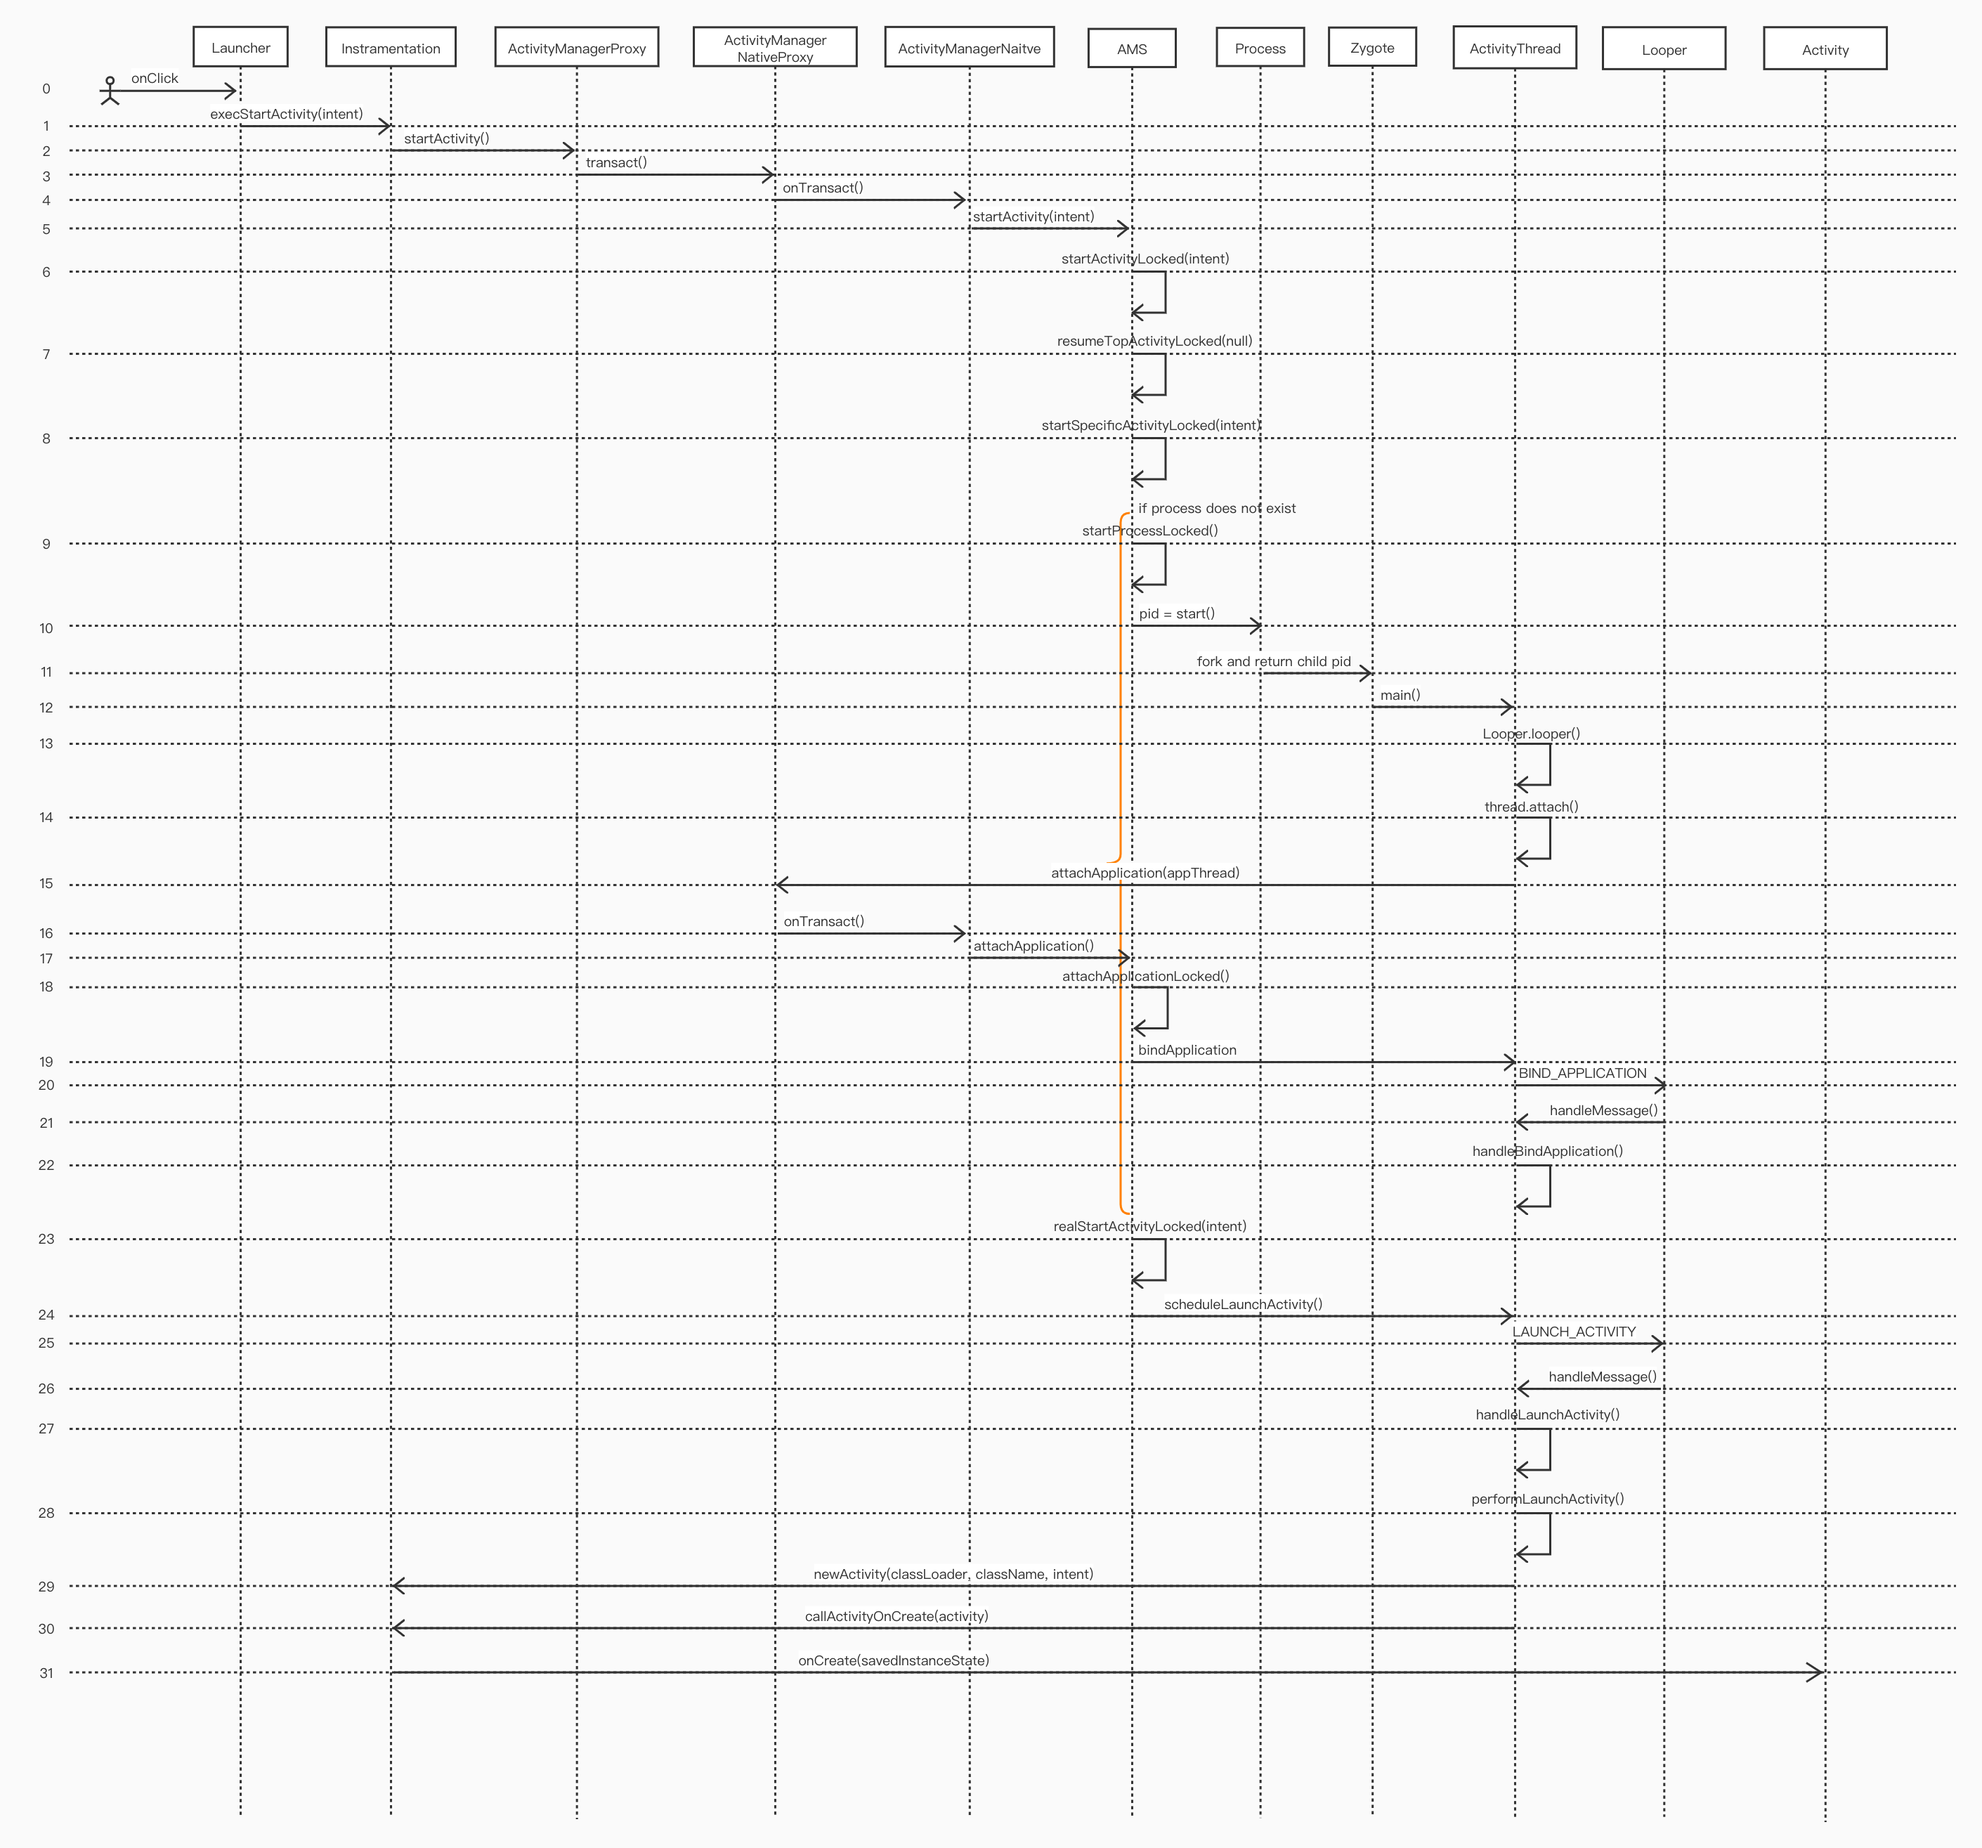
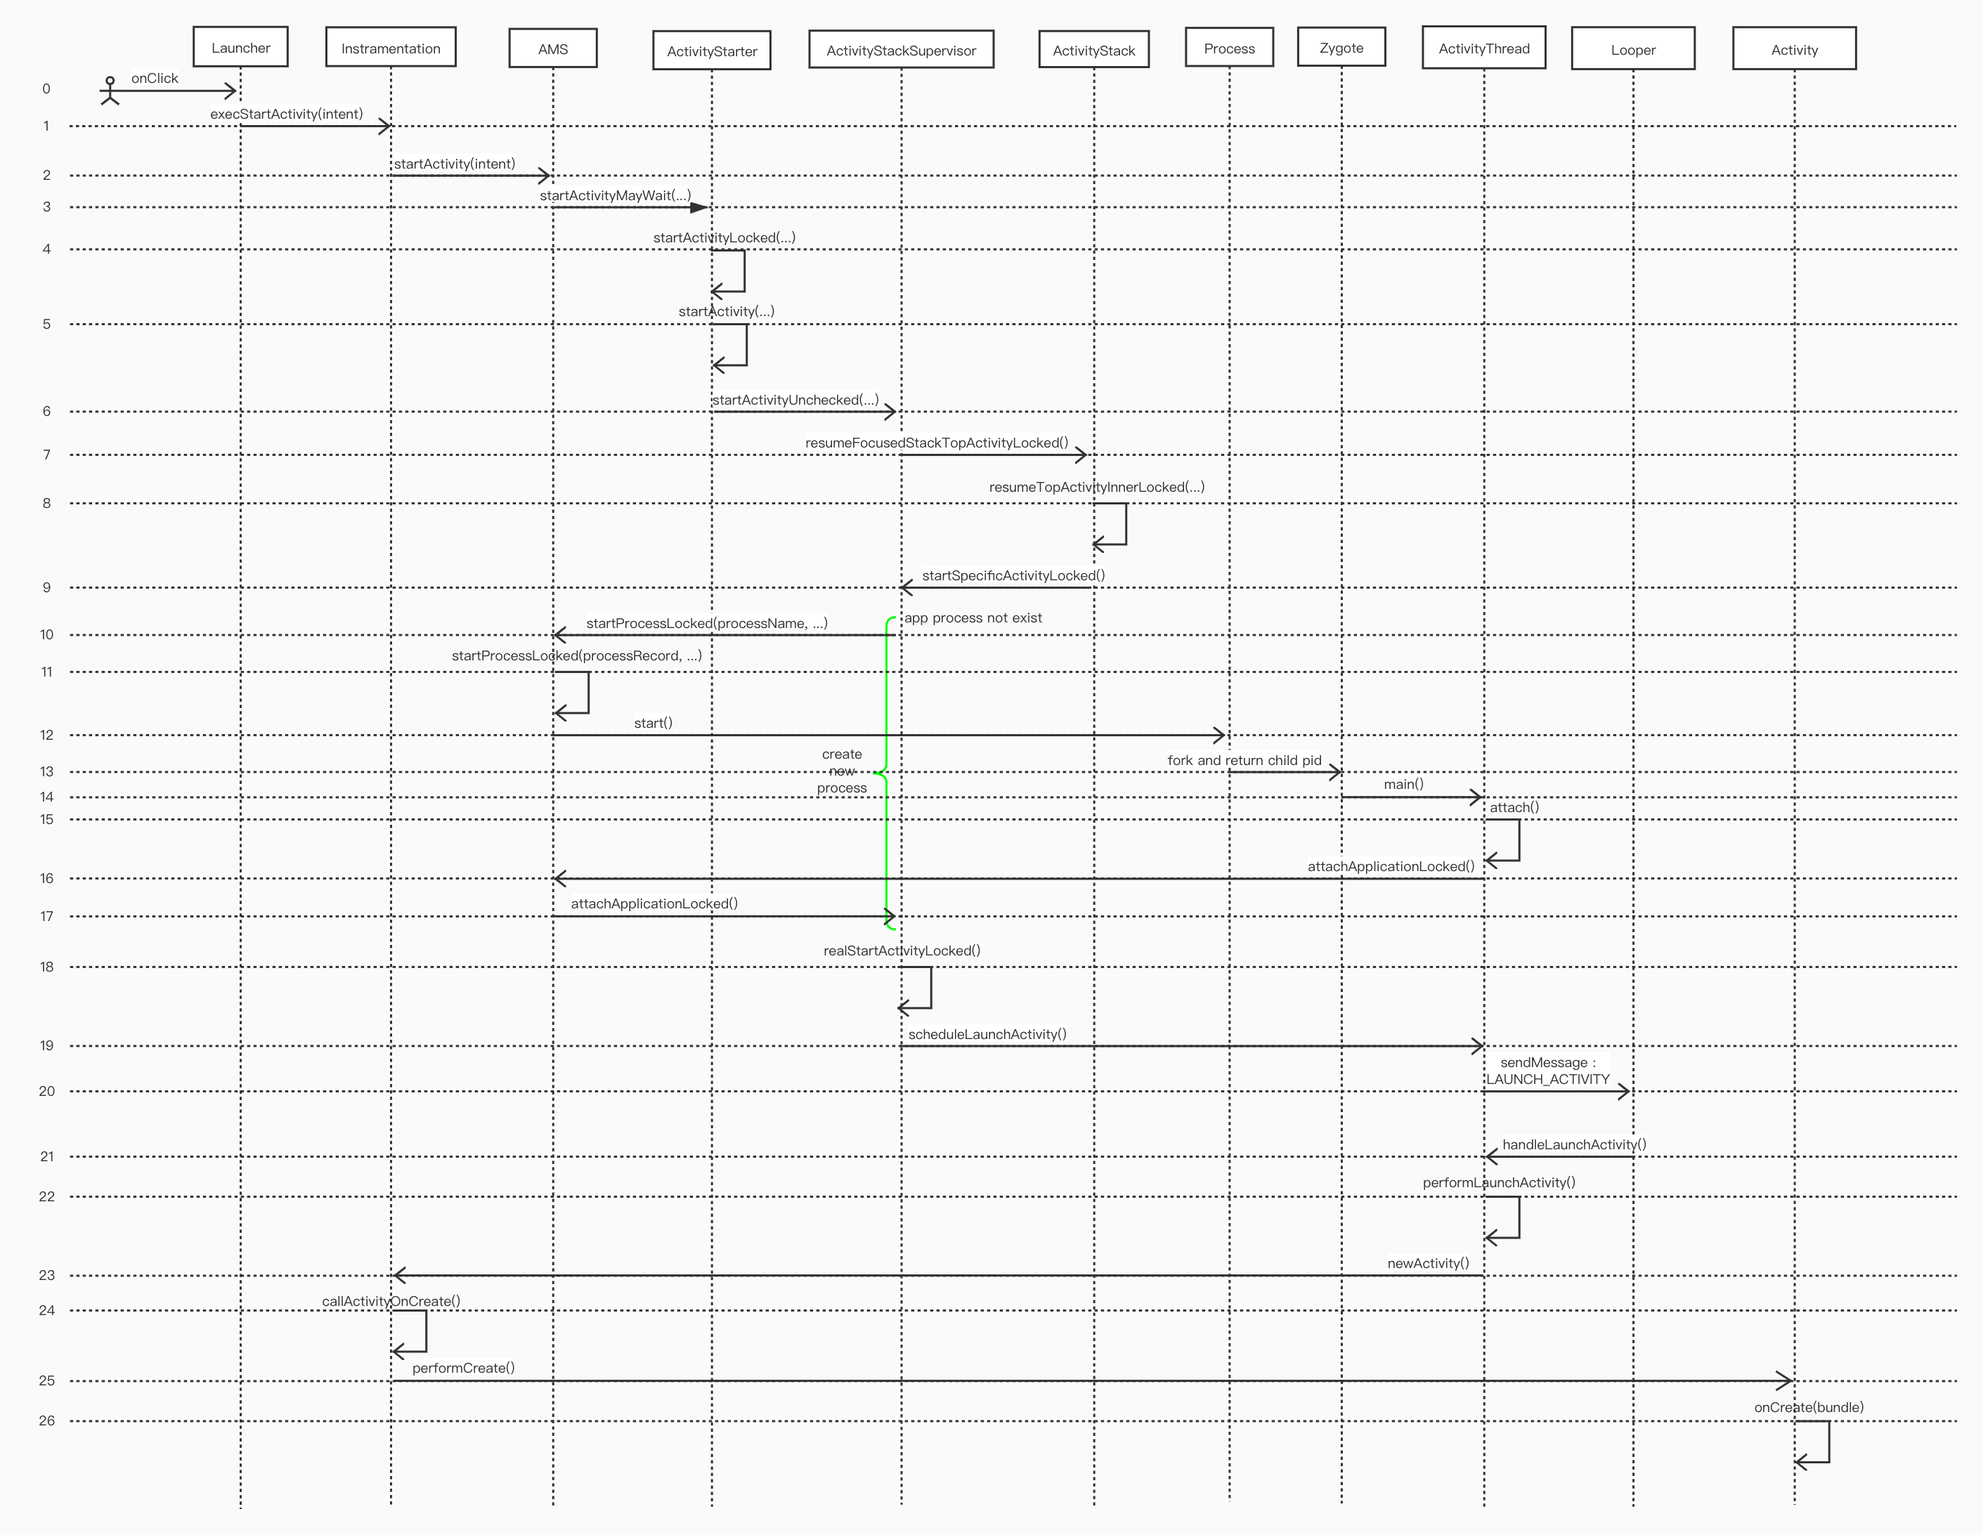
update

diff --git a/Android AOSP/Android App 加载过程介绍：从 startActivity() 到 Activity.onCreate().md b/Android AOSP/Android App 加载过程介绍：从 startActivity() 到 Activity.onCreate().md
@@ -2,11 +2,9 @@
 
 zygote 首先会 fork 出一个叫做 SystemServer 的进程，许多核心服务（如 AMS, WMS, PMS 等）由 SystemServer 进行初始化。所有核心服务加载完毕后，系统已准备好加载应用程序了。zygote 会 fork 出第一个应用进行--桌面应用（Launcher）进行展示。
 
-下图描述从用户点击桌面图标到 `Activity.onCreate()` 回调过程中的关键步骤
+下图以 Android_8.0.0 版本为基础描述从用户点击桌面图标到 `Activity.onCreate()` 回调过程中的关键步骤
 
 ![from launcher click to onCreate callback](../resource/launcher2oncreate.jpg)
-
-上图是从网上找到的，内容来自 aosp 较早版本，好多代码已经被移除（ActivityManagerProxy, ActivityManagerNativeProxy）或者被标记过时（ActivityManagerNative），但是主体流程过程是没啥问题的。下面会以 Android_8.0.0_r36 源码为基础分析应用启动过程。
 
 ## 启动 Activity
 ### 模拟启动 TargetApp
@@ -244,25 +242,159 @@ final int startActivityMayWait(IApplicationThread caller, int callingUid,
 |inTask|null|具体作用未知，TaskRecord 是 ActivityStackSupervisor-ActivityStack-TaskRecord-ActivityRecord 关系中的一个组件，记录 task 信息|
 |reason|`"startActivityAsUser"`|作用未知|
 
+进入代码之前要先清楚 task 是如何管理 Activity 的，快速浏览 [Activity launchMode、回退栈与 affinity](https://blog.csdn.net/weixin_46221133/article/details/104172642) 了解大概后，还需要了解以下实体类
 
+|类|作用|
+|---|---|
+|Intent|代表一种意图，比如，启动一个 Activity，启动一个 Service，都是以 Intent 发起，根据 Intent 信息获取应用或系统中可以响应这个意图的组件|
+|ResolveInfo|Resolve 代表解析的意思。粗略地讲，可以把它看作从 AndroidManifest 文件中解析出来的某个组件实体类。这个解析过程是由 PackageMangerService 提供，PMS 根据 intent 和 resolveType 从 manifest 信息中解析出来。 ActivityInfo、ServiceInfo、ProviderInfo 都是它的成员变量|
+|ActivityInfo|Info 代表信息，是个静态概念，它是 activity 实体类。它是从 AndroidManifest 文件获取的信息，承载 `activity` 或 `receiver` 标签的所有属性。|
+|ActivityRecord|Record 代表记录，是个动态概念（与 ActivityInfo 相比），它也是 activity 实体类。不过，它更偏向“记录”，信息是时时变化的，比如，activity 从哪个 intent 得来，需要将信息传回哪个 activity；activity 在 task 中的位置；activity 上次保存的状态等。|
+|TaskRecord|与 ActivityRecord，TaskRecord 记录的是 task 的动态信息，它是 task 的实体类。它内部有个数据记录属于本 task 所有 ActivityRecord。|
+|ActivityStack|Stack 代表栈，看名字就能看出，它起栈的作用，内部元素是 activity。它存放到设备中所有的 activity, task 以及它们的排列方式。因为记录的是所有的 activity，所以它知道所有 activity 的状态。|
+|ActivityStackSupervisor|Supervisor 有管理员的意思，它的作用也就很显示了，操作 ActiviyStack，因为 ActivityStack 拥有所有的 activity，所以 ActivityStackSupervisor 就是管理所有 activity 了。它就是 AMS 的真正执行者|
+|Activity|感觉它名字起错了，叫 Controller 才合适，它等待 ActivityRecord 把所有信息处理完成后，会初始化一个 PhoneWindow 对象，此对象用于显示画面。此后就将内部逻辑交给 AMS，显示交到 WMS，Activity 在中间起调节作用，最主要的是给开发者一个简单的模型，方便开发。|
 
+现在可以看代码了
+```java
+// ActivityStarter.startActivityMayWait
+final int startActivityMayWait(IApplicationThread caller, int callingUid,
+        String callingPackage, Intent intent, String resolvedType,
+        IVoiceInteractionSession voiceSession, IVoiceInteractor voiceInteractor,
+        IBinder resultTo, String resultWho, int requestCode, int startFlags,
+        ProfilerInfo profilerInfo, WaitResult outResult,
+        Configuration globalConfig, Bundle bOptions, boolean ignoreTargetSecurity, int userId,
+        IActivityContainer iContainer, TaskRecord inTask, String reason) {
+    
+    ...
 
+    // 从 PMS 获取目标 intent 的解析信息（resolve info）
+    ResolveInfo rInfo = mSupervisor.resolveIntent(intent, resolvedType, userId);
+    
+    ...
 
+    ActivityInfo aInfo = mSupervisor.resolveActivity(intent, rInfo, startFlags, profilerInfo);
 
+    ActivityOptions options = ActivityOptions.fromBundle(bOptions);
+    // 根据上文可知 iContainer 为 null
+    ActivityStackSupervisor.ActivityContainer container =
+            (ActivityStackSupervisor.ActivityContainer)iContainer;
+    synchronized (mService) {
+        if (container != null && container.mParentActivity != null &&
+                container.mParentActivity.state != RESUMED) {
+            return ActivityManager.START_CANCELED;
+        }
+        final int realCallingPid = Binder.getCallingPid();
+        final int realCallingUid = Binder.getCallingUid();
+        int callingPid;
+        if (callingUid >= 0) {
+            callingPid = -1;
+        } else if (caller == null) {
+            callingPid = realCallingPid;
+            callingUid = realCallingUid;
+        } else {
+            callingPid = callingUid = -1;
+        }
 
+        final ActivityStack stack;
+        if (container == null || container.mStack.isOnHomeDisplay()) {
+            stack = mSupervisor.mFocusedStack;
+        } else {
+            stack = container.mStack;
+        }
+        stack.mConfigWillChange = globalConfig != null
+                && mService.getGlobalConfiguration().diff(globalConfig) != 0;
+        if (DEBUG_CONFIGURATION) Slog.v(TAG_CONFIGURATION,
+                "Starting activity when config will change = " + stack.mConfigWillChange);
 
+        // 与下面 Binder.restoreCallingIdentity(origId) 成对出现，用于权限控制
+        final long origId = Binder.clearCallingIdentity();
 
+        if (aInfo != null &&
+                (aInfo.applicationInfo.privateFlags
+                        & ApplicationInfo.PRIVATE_FLAG_CANT_SAVE_STATE) != 0) {
+            // 如果在 <activity> 的 android:process 属性添加不同于包名的值就会进入下面的条件
+            if (aInfo.processName.equals(aInfo.applicationInfo.packageName)) {
+                final ProcessRecord heavy = mService.mHeavyWeightProcess;
+                if (heavy != null && (heavy.info.uid != aInfo.applicationInfo.uid
+                        || !heavy.processName.equals(aInfo.processName))) {
+                    int appCallingUid = callingUid;
+                    if (caller != null) {
+                        ProcessRecord callerApp = mService.getRecordForAppLocked(caller);
+                        if (callerApp != null) {
+                            appCallingUid = callerApp.info.uid;
+                        } else {
+                            Slog.w(TAG, "Unable to find app for caller " + caller
+                                    + " (pid=" + callingPid + ") when starting: "
+                                    + intent.toString());
+                            ActivityOptions.abort(options);
+                            return ActivityManager.START_PERMISSION_DENIED;
+                        }
+                    }
 
+                    IIntentSender target = mService.getIntentSenderLocked(
+                            ActivityManager.INTENT_SENDER_ACTIVITY, "android",
+                            appCallingUid, userId, null, null, 0, new Intent[] { intent },
+                            new String[] { resolvedType }, PendingIntent.FLAG_CANCEL_CURRENT
+                                    | PendingIntent.FLAG_ONE_SHOT, null);
 
+                    Intent newIntent = new Intent();
+                    if (requestCode >= 0) {
+                        // 调用者需要返回信息
+                        newIntent.putExtra(HeavyWeightSwitcherActivity.KEY_HAS_RESULT, true);
+                    }
+                    newIntent.putExtra(HeavyWeightSwitcherActivity.KEY_INTENT,
+                            new IntentSender(target));
+                    if (heavy.activities.size() > 0) {
+                        ActivityRecord hist = heavy.activities.get(0);
+                        newIntent.putExtra(HeavyWeightSwitcherActivity.KEY_CUR_APP,
+                                hist.packageName);
+                        newIntent.putExtra(HeavyWeightSwitcherActivity.KEY_CUR_TASK,
+                                hist.getTask().taskId);
+                    }
+                    newIntent.putExtra(HeavyWeightSwitcherActivity.KEY_NEW_APP,
+                            aInfo.packageName);
+                    newIntent.setFlags(intent.getFlags());
+                    newIntent.setClassName("android",
+                            HeavyWeightSwitcherActivity.class.getName());
+                    intent = newIntent;
+                    resolvedType = null;
+                    caller = null;
+                    callingUid = Binder.getCallingUid();
+                    callingPid = Binder.getCallingPid();
+                    componentSpecified = true;
+                    rInfo = mSupervisor.resolveIntent(intent, null /*resolvedType*/, userId);
+                    aInfo = rInfo != null ? rInfo.activityInfo : null;
+                    if (aInfo != null) {
+                        aInfo = mService.getActivityInfoForUser(aInfo, userId);
+                    }
+                }
+            }
+        }
 
+        final ActivityRecord[] outRecord = new ActivityRecord[1];
+        // 此处方法名为 xxxLocked 的含意是此方法处于 synchronized 块中
+        int res = startActivityLocked(caller, intent, ephemeralIntent, resolvedType,
+                aInfo, rInfo, voiceSession, voiceInteractor,
+                resultTo, resultWho, requestCode, callingPid,
+                callingUid, callingPackage, realCallingPid, realCallingUid, startFlags,
+                options, ignoreTargetSecurity, componentSpecified, outRecord, container,
+                inTask, reason);
 
+        Binder.restoreCallingIdentity(origId);
 
+        ...
+        
+        return res;
+    }
+}
+```
 
+---
 
-
+看了两天 startActivity 的源码，提取了启动过程中关键步骤（开篇时的时序图），整个过程涉及茫茫多知识点，整理起来异常困难。关键是很多的仔细不知所以然，可能会误导读者，篇暂时定为开篇，等理清非主干细节后再来续写。
 
 ## 参考链接
 > [Android Application Launch explained: from Zygote to your Activity.onCreate()](https://android.jlelse.eu/android-application-launch-explained-from-zygote-to-your-activity-oncreate-8a8f036864b)<br/>
 > [Android系统启动-zygote篇](http://gityuan.com/2016/02/13/android-zygote/)<br/>
 > [四大组件之ActivityRecord](http://gityuan.com/2017/06/11/activity_record/)
-

diff --git a/Android AOSP/tmp.md b/Android AOSP/tmp.md
@@ -2,3 +2,4 @@ Instrumentation: 1611
 ActivityManagerService: 4461
 ActivityManagerService: 4490
 ActivityStarter: 668
+ActivityStarter: 286
